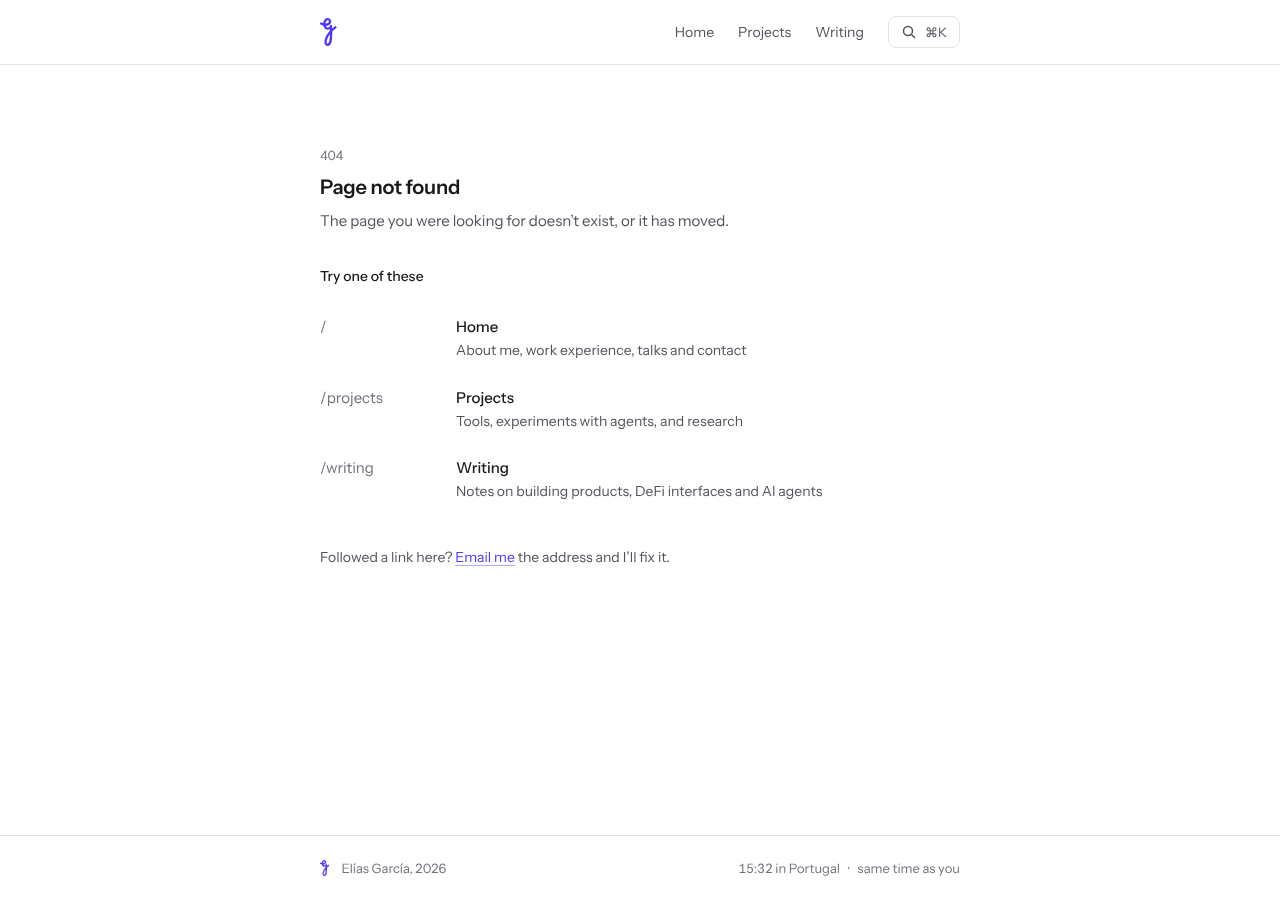
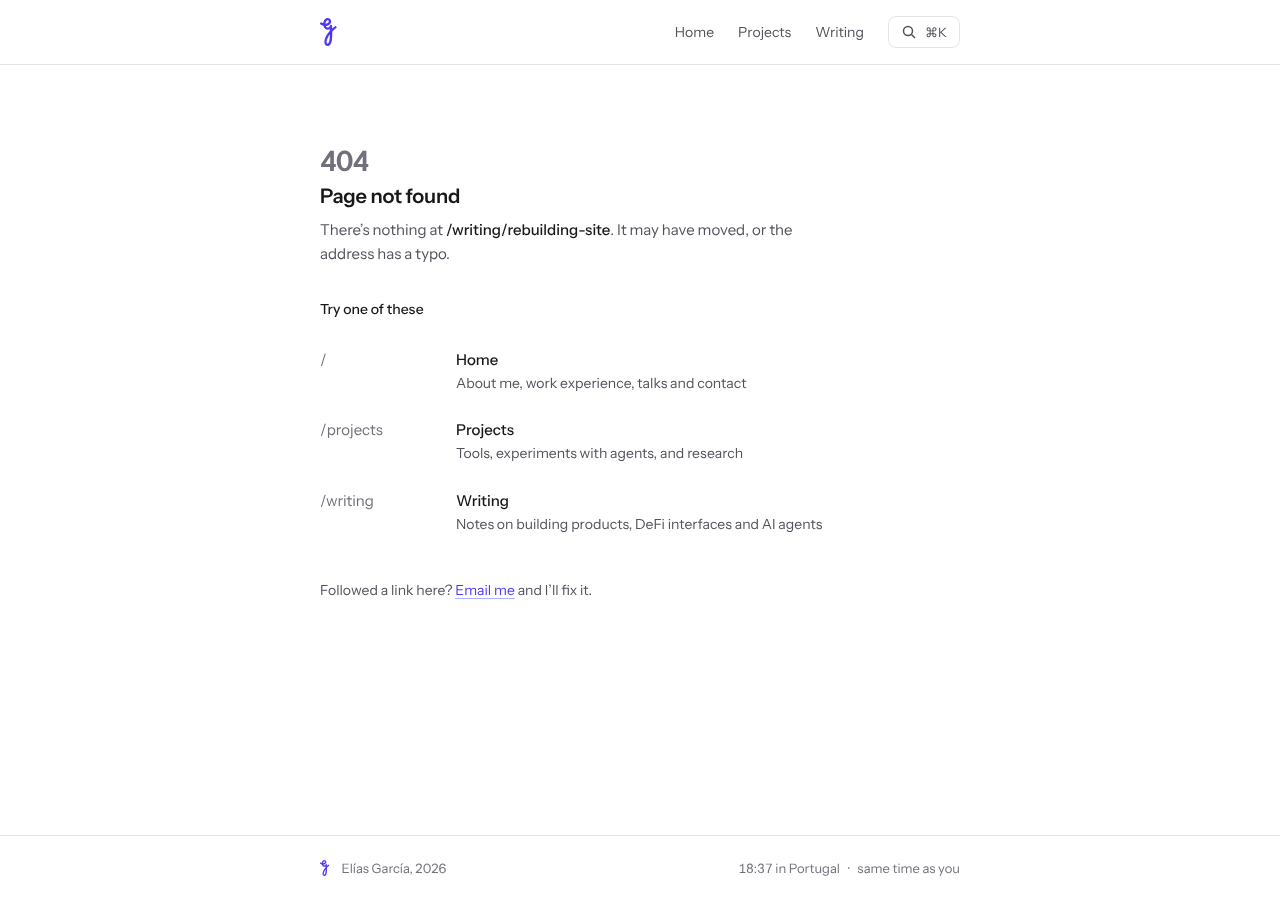
feat: build the 404 page

diff --git a/design/reference/404.html b/design/reference/404.html
@@ -134,7 +134,6 @@ html{scroll-padding-top:80px}
 .site > main{padding-top:48px !important}
 }
 
-/* search: nested choice (Download CV → format). The crumb shows where you are and goes back */
 .pcrumb{flex:none;display:inline-flex;align-items:center;height:28px;padding:0 12px;border:0;border-radius:var(--r-full);background:var(--control);color:var(--text-2);font:inherit;font-size:13px;cursor:pointer;transition:background var(--dur) var(--ease),color var(--dur) var(--ease)}
 .pcrumb:hover{background:var(--control-hover);color:var(--text)}
 .pret{text-align:center}
@@ -164,6 +163,15 @@ html:has(.pscrim){overflow:hidden}
 
 /* jumping to a #link scrolls smoothly (heading anchors, footnotes, back links, skip link); instant with reduced motion */
 @media (prefers-reduced-motion: no-preference){html{scroll-behavior:smooth}}
+
+/* 404 page */
+.nfaddr{color:var(--text);font-weight:500;overflow-wrap:anywhere}
+.nfcode{margin:0;font-size:28px;line-height:1.2;font-weight:600;letter-spacing:-0.02em;color:var(--text-3);font-variant-numeric:tabular-nums}
+.vh{position:absolute;width:1px;height:1px;overflow:hidden;clip:rect(0 0 0 0);white-space:nowrap}
+
+
+/* 404: the large "404" is a visual label (the h1 carries it for screen readers); the address that failed is in the subtitle. The paths are a visual hint only (hidden from screen readers), and are dropped on phones where they would take a line each */
+@media (max-width: 639.98px){.nfmix .path{display:none}}
 </style>
 </head><body>
 
@@ -189,22 +197,22 @@ html:has(.pscrim){overflow:hidden}
   </header>
 
   <main id="content" style="max-width: 688px; margin: 0 auto; padding: 80px 24px 0; display: flex; flex-direction: column; gap: 32px">
-    <header style="display: flex; flex-direction: column; gap: 8px">
-      <p style="margin: 0; font-size: 13px; color: var(--text-3); font-variant-numeric: tabular-nums">404</p>
-      <h1 style="margin: 0; font-size: 20px; line-height: 1.35; font-weight: 600; letter-spacing: -0.01em">Page not found</h1>
-      <p style="margin: 0; color: var(--text-2); max-width: 52ch">The page you were looking for doesn’t exist, or it has moved.</p>
-    </header>
 
-    <section aria-labelledby="try-h" style="display: flex; flex-direction: column; gap: 8px">
+    <header style="display: flex; flex-direction: column; gap: 4px">
+      <p class="nfcode" aria-hidden="true">404</p>
+      <h1 style="margin: 0; font-size: 20px; line-height: 1.35; font-weight: 600; letter-spacing: -0.01em"><span class="vh">404: </span>Page not found</h1>
+      <p style="margin: 4px 0 0; color: var(--text-2); max-width: 52ch">There’s nothing at <span class="nfaddr">/writing/rebuilding-site</span>. It may have moved, or the address has a typo.</p>
+    </header>
+    <section class="nfmix" aria-labelledby="try-h" style="display: flex; flex-direction: column; gap: 8px">
       <h2 id="try-h" style="margin: 0 0 8px; font-size: 14px; font-weight: 500">Try one of these</h2>
       <ul class="list" role="list" style="display: flex; flex-direction: column">
-        <li><a class="item" href="Main.dc.html" style="display: flex; flex-wrap: wrap; gap: 4px 24px; padding: 12px 0"><span class="path">/</span><span style="flex: 1 1 300px; min-width: 0; display: flex; flex-direction: column"><span style="font-weight: 500">Home</span><span style="font-size: 14px; color: var(--text-2)">About me, work experience, talks and contact</span></span></a></li>
-        <li><a class="item" href="ProjectsIndex.dc.html" style="display: flex; flex-wrap: wrap; gap: 4px 24px; padding: 12px 0"><span class="path">/projects</span><span style="flex: 1 1 300px; min-width: 0; display: flex; flex-direction: column"><span style="font-weight: 500">Projects</span><span style="font-size: 14px; color: var(--text-2)">Tools, experiments with agents, and research</span></span></a></li>
-        <li><a class="item" href="Writing.dc.html" style="display: flex; flex-wrap: wrap; gap: 4px 24px; padding: 12px 0"><span class="path">/writing</span><span style="flex: 1 1 300px; min-width: 0; display: flex; flex-direction: column"><span style="font-weight: 500">Writing</span><span style="font-size: 14px; color: var(--text-2)">Notes on building products, DeFi interfaces and AI agents</span></span></a></li>
+        <li><a class="item" href="Main.dc.html" style="display: flex; flex-wrap: wrap; gap: 4px 24px; padding: 12px 0"><span class="path" aria-hidden="true">/</span><span style="flex: 1 1 300px; min-width: 0; display: flex; flex-direction: column"><span style="font-weight: 500">Home</span><span style="font-size: 14px; color: var(--text-2)">About me, work experience, talks and contact</span></span></a></li>
+        <li><a class="item" href="ProjectsIndex.dc.html" style="display: flex; flex-wrap: wrap; gap: 4px 24px; padding: 12px 0"><span class="path" aria-hidden="true">/projects</span><span style="flex: 1 1 300px; min-width: 0; display: flex; flex-direction: column"><span style="font-weight: 500">Projects</span><span style="font-size: 14px; color: var(--text-2)">Tools, experiments with agents, and research</span></span></a></li>
+        <li><a class="item" href="Writing.dc.html" style="display: flex; flex-wrap: wrap; gap: 4px 24px; padding: 12px 0"><span class="path" aria-hidden="true">/writing</span><span style="flex: 1 1 300px; min-width: 0; display: flex; flex-direction: column"><span style="font-weight: 500">Writing</span><span style="font-size: 14px; color: var(--text-2)">Notes on building products, DeFi interfaces and AI agents</span></span></a></li>
       </ul>
     </section>
 
-    <p style="margin: 0; font-size: 14px; color: var(--text-2)">Followed a link here? <a class="reportlink" href="mailto:eliasgarciadev@gmail.com?subject=Broken%20link">Email me</a> the address and I’ll fix it.</p>
+    <p style="margin: 0; font-size: 14px; color: var(--text-2)">Followed a link here? <a class="reportlink" href="mailto:eliasgarciadev@gmail.com?subject=Broken%20link%3A%20/writing/rebuilding-site&body=I%20followed%20a%20link%20to%20https%3A//eliasgarcia.dev/writing/rebuilding-site%20from%3A%20">Email me</a> and I’ll fix it.</p>
   </main>
 
   <footer style="margin-top: 96px; border-top: 1px solid var(--line); padding-bottom: env(safe-area-inset-bottom, 0px)">
@@ -213,7 +221,7 @@ html:has(.pscrim){overflow:hidden}
         <svg viewBox="0 0 35.44 60" width="9.45" height="16" aria-hidden="true" style="display: block; flex: none"><path d="M35.06,18.67a2.46,2.46,0,0,0-3.5-.7,42.61,42.61,0,0,0-5.49,4.29c0-6.79-.5-6.89-1.1-7.38a2.35,2.35,0,0,0-1.59-.6A2.5,2.5,0,0,0,21,16.47a4.52,4.52,0,0,1-4.49,4A4.2,4.2,0,0,1,13,18c-.1-.3-.29-.5-.39-.8a12.89,12.89,0,0,0,6.78-2.29c2.9-2.1,4.5-4.4,4.6-7a7.48,7.48,0,0,0-2.2-5.59A8,8,0,0,0,16.39,0C14.09,0,12,1.1,10,3.09a13.36,13.36,0,0,0-3.2,7.69v.3a13.85,13.85,0,0,1-3-1.4,2.45,2.45,0,0,0-3.39.8A2.5,2.5,0,0,0,1.21,14,25.34,25.34,0,0,0,7.1,16.47l.3.9c1.1,3.6,3.8,8,9,8h.2a11.39,11.39,0,0,0,4.49-1.1v2.79A48.74,48.74,0,0,0,11.9,40.93c-2.9,7-3.4,12.28-1.3,15.68a6.88,6.88,0,0,0,4.79,3.29c.2,0,.5.1,1,.1A6.55,6.55,0,0,0,20,58.9c2.6-1.6,4.3-4.89,5.29-9.78.8-4.1,1-12.08,1-19.07V29h0l.1-.1a62.39,62.39,0,0,1,8.09-6.79A2.57,2.57,0,0,0,35.06,18.67ZM11.8,11.78a8.62,8.62,0,0,1,1.89-5.29,4.9,4.9,0,0,1,2.7-1.6h.1a3.07,3.07,0,0,1,1.8.7l.1.1a3,3,0,0,1,.69,1.7c-.1,1-1,2.09-2.49,3.19A8.07,8.07,0,0,1,11.9,12C11.8,12,11.8,11.88,11.8,11.78Zm9.28,23.06h0V36a74.15,74.15,0,0,1-.9,12.18C19.08,53.81,17.09,55,16.29,55H16a2.47,2.47,0,0,1-1.2-.9c-.5-.9-1.5-3.79,1.7-11.18a39.57,39.57,0,0,1,4.59-8.09Z" style="fill: var(--accent-c)"></path><path d="M26.17,30.3a23.23,23.23,0,0,0-2.3,2.5,41.77,41.77,0,0,0-2.7,3.6V34.9h0a32.88,32.88,0,0,1,2.4-3.2,37.32,37.32,0,0,1,2.6-2.7Z" style="fill: #000; opacity: 0.3"></path><path d="M12.57,17.1s-1.3,0-2.7-.1a26,26,0,0,1-2.8-.5l.3.9a20.07,20.07,0,0,0,2.6.5,8.48,8.48,0,0,0,3,0Z" style="fill: #000; opacity: 0.3"></path><path d="M11.8,11.78v.3a8.79,8.79,0,0,1-2.4-.2,14.31,14.31,0,0,1-2.5-.8v-.3a15.12,15.12,0,0,0,2.6.7A7.52,7.52,0,0,0,11.8,11.78Z" style="fill: #000; opacity: 0.1"></path><path d="M26.07,21.8c-.2.2-2,1.8-2.6,2.3s-2,2-2.3,2.4V27s1.5-1.7,2.4-2.5l2.5-2.3Z" style="fill: #000; opacity: 0.1"></path></svg>
         Elías García, 2026
       </span>
-      <span class="clock" style="display: inline-flex; align-items: center; gap: 8px; font-variant-numeric: tabular-nums"><span><time datetime="17:43">17:43</time> in Portugal</span><span aria-hidden="true">·</span><span>same time as you</span></span>
+      <span class="clock" style="display: inline-flex; align-items: center; gap: 8px; font-variant-numeric: tabular-nums"><span><time datetime="18:37">18:37</time> in Portugal</span><span aria-hidden="true">·</span><span>same time as you</span></span>
     </div>
   </footer>
 

diff --git a/src/styles/tokens.css b/src/styles/tokens.css
@@ -24,7 +24,7 @@
   --accent: #4f39f6; /* indigo-600 */
   --tint: #eef2ff; /* indigo-50: selected chip, active search row */
   --tint-strong: #e0e7ff; /* indigo-100: search match highlight */
-  --accent-line: #a3b3ff; /* indigo-300: underline under links in prose */
+  --accent-line: #a3b3ff; /* indigo-300: underline under text links */
 
   /* ---- Code: minimal indigo syntax theme (every colour ≥4.5:1 on --surface) ---- */
   --code-plain: #52525c; /* zinc-600 */
@@ -156,8 +156,8 @@
   --code-inline: 0.875em; /* inline code, relative to the text around it */
   --focus-ring: 2px;
   --focus-offset: 3px;
-  --underline-offset: 3px; /* links in prose and the post's topic link */
-  --underline-strong: 2px; /* a prose link's underline on hover and focus */
+  --underline-offset: 3px; /* text links and the post's topic link */
+  --underline-strong: 2px; /* a text link's underline on hover and focus */
   --kbd-min: 20px; /* narrowest key hint */
   --hero-row: 36px; /* listing rows in a case study hero */
   --hero-chip: 28px; /* chips in a case study hero */

diff --git a/src/content.config.ts b/src/content.config.ts
@@ -13,7 +13,9 @@ const site = defineCollection({
   schema: z.object({
     name: z.string(),
     role: z.string(),
-    location: z.string(),
+    city: z.string(),
+    // The footer clock says the time "in {country}", where the timezone is.
+    country: z.string(),
     timezone: z.string(),
     availability: z.string(),
     about: z.array(z.string()),
@@ -116,9 +118,26 @@ const pages = defineCollection({
   }),
 });
 
+const notFound = defineCollection({
+  loader: file("src/content/not-found.yaml"),
+  schema: z.object({
+    label: z.string(),
+    title: z.string(),
+    intro: z.string(),
+    introWithAddress: z.string().includes("{address}"),
+    suggestionsTitle: z.string(),
+    suggestions: z.record(z.string(), z.string()),
+    report: z.string().includes("{link}"),
+    reportLink: z.string(),
+    reportSubject: z.string(),
+    reportBody: z.string().includes("{url}").includes("{referrer}"),
+  }),
+});
+
 export const collections = {
   site,
   pages,
+  notFound,
   work,
   talks,
   courses,

diff --git a/src/lib/content.ts b/src/lib/content.ts
@@ -106,6 +106,11 @@ export async function getPage(id: string) {
   return data;
 }
 
+export async function getNotFoundPage() {
+  const { data } = await requireEntry("notFound", "not-found");
+  return data;
+}
+
 export async function getFeedTitle(): Promise<string> {
   const [profile, page] = await Promise.all([getProfile(), getPage("writing")]);
   return `${profile.name}: ${page.title}`;

diff --git a/src/lib/cv.ts b/src/lib/cv.ts
@@ -59,7 +59,7 @@ export async function renderCvMarkdown(): Promise<string> {
 
   return [
     `# ${profile.name}`,
-    `${profile.role} · ${profile.location} · ${profile.availability}`,
+    `${profile.role} · ${profile.city}, ${profile.country} · ${profile.availability}`,
     contact,
     "## About",
     profile.about.join("\n\n"),

diff --git a/design/DESIGN.md b/design/DESIGN.md
@@ -58,7 +58,7 @@ One family, **Instrument Sans** (Google Fonts, via Astro's Fonts API), weights 4
 
 | Style | Size · weight · line height | Tracking | Use | Element |
 |---|---|---|---|---|
-| Display | 28 · 600 · 1.2 | −0.02em | Post and case study titles | `h1` |
+| Display | 28 · 600 · 1.2 | −0.02em | Post and case study titles; the "404" label on the 404 page (`--text-3`, `aria-hidden`) | `h1`; `p` (404 label) |
 | Page title | 20 · 600 · 1.35 | −0.01em | Home name, Projects, Writing, 404 | `h1` |
 | Heading | 18 · 600 · 1.35 | −0.01em | Section headings in posts and case studies | `h2` |
 | Lead | 18 · 400 · 1.6 | 0 | Case study intro | `p` |
@@ -210,7 +210,7 @@ Each component appears exactly once in the design system. Live versions: `refere
 - **Previous / next card.** Bordered, `--r-lg`; the chevron sits on the side it leads to. In a `<nav aria-label="More posts">` (or "More projects").
 
 ### Text and metadata
-- **Page intro.** The `<header>` that opens Projects, Writing and the 404: the page title, optionally with an action on its right (Subscribe on Writing), and one paragraph in `--text-2` 8px below, across the full text column (no narrower measure). Anything else in the intro, like the Writing topic chips, sits 20px below.
+- **Page intro.** The `<header>` that opens Projects, Writing and the 404: optionally a label 4px above the title ("404"), the page title, optionally with an action on its right (Subscribe on Writing), and one paragraph in `--text-2` 8px below, across the full text column (no narrower measure). Anything else in the intro, like the Writing topic chips, sits 20px below.
 - **Metadata line.** Items separated by a dot: each dot is its own `aria-hidden` element with an 8px gap on each side (never a dot between plain spaces). On wrapping, a dot stays with the item after it, so a line never ends on a dot. Post header: "November 9, 2026 · Design engineering · 4 min read"; the topic links to its Writing topic page (`/writing/topics/<slug>`).
 - **Project facts.** `<dl>`: **Year · Status · Links** in three equal columns between two hairlines; below 640px one fact per row: the 13px label in a 112px column (like the lists' date column) and the 14px value beside it on the same baseline, 24px apart, 12px between rows; links that don't fit wrap under the first, still in the value column. Links are named by destination ("Website", "GitHub", "npm"), product first, code second, with the external arrow; none → "Not public yet" in `--text-3`.
 - **Author footer.** Ends every post: 40px photo, name (`rel="author"`, links Home) and role, inside the article's `<footer>` / `<address>`.
@@ -315,7 +315,10 @@ Intro with **Subscribe** (RSS icon + label) on the right of the title; topic chi
 Back link + Copy page, title (display), metadata line, then the article (max 640px, long-form text), a reading-progress bar under the header (scroll-driven animation where supported), the author footer and previous/next.
 
 ### 404
-"404" (meta), "Page not found" (page title), one sentence, then "Try one of these" as list rows with the path in the gutter ("/", "/projects", "/writing"), and "Followed a link here? **Email me** the address and I'll fix it." (mailto with subject "Broken link"; in the real build, prefill the body with the requested URL). No separate search button: the header search is enough.
+- **Header:** the page intro. "404" at Display size (28 · 600 · 1.2, −0.02em, tabular figures) in `--text-3`, `aria-hidden`; 4px below it the page title `h1` "Page not found" (20 · 600), whose accessible text is "404: Page not found" (a visually hidden "404: " before it); 8px below, one sentence in `--text-2`, full width like the other intros: "There's nothing at **{address}**. It may have moved, or the address has a typo." The address is the requested path (`location.pathname`) in `--text` 500, allowed to break after "/" (`<wbr>` after each slash). Without JavaScript, or when the path is empty, the sentence reads "There's nothing at this address." instead.
+- **Try one of these:** 32px below, an `h2` "Try one of these" (14 · 500) and three list rows: Home, Projects, Writing, each with its one-line description. From 640px, the path ("/", "/projects", "/writing") sits in the 112px date column as a visual hint, `aria-hidden`; below 640px the path and its column are hidden, so each row is title and description only.
+- **Report line:** 32px below, "Followed a link here? **Email me** and I'll fix it." The link is a `mailto:` with subject "Broken link: {address}" and body "I followed a link to {full URL} from: {document.referrer, or nothing}", both URL-encoded. Without JavaScript the subject is "Broken link".
+- **Build:** the page returns a real **404 status** (`src/pages/404.astro`, which the host serves for unknown paths; never a redirect to Home, never a 200). Browser title "Page not found", like the other pages' titles. 404s are logged by the site's analytics: its page views record the requested path and the referrer. No separate search on the page: the header search (⌘K) is enough.
 
 ### Share images (Open Graph, 1200×630)
 `assets/share-site.png` and `assets/share-post.png`, templates in `reference/share-*.html`. Always light theme. Top: logo (+ "Elías García · Writing" on posts); middle: photo + name + title, or the post title at 72px; bottom: details on the left, eliasgarcia.dev on the right, dots spaced 16px. No time-sensitive status on them. Generate one per post at build time in a static endpoint, with Satori and sharp.

diff --git a/PLAN.md b/PLAN.md
@@ -13,8 +13,8 @@ One page per step. Each step builds the components that page needs (DESIGN.md §
 5. ~~**Projects.**~~ Done. Intro and the project card grid (from 640px, the first project spans both columns when the count is odd). Components: project card, project status line (also on the Home tiles) and page intro (shared with Writing), reusing the project illustrations.
 6. ~~**Roleburn case study.**~~ Done. The case study page (`/projects/<slug>`) with its hero and the preview morph from Home and Projects. Components: project facts, the Roleburn hero and the figure placeholder, reusing the back link, code block and previous/next card. work-issue and POL funding spreads have draft placeholder case studies (dev only).
 7. ~~**Home updates.**~~ Done. From the home-redesign handoff. Intro line with the location. Work rows: work mode after the company, first-line alignment of date, company and +/×, spaced en dash in ranges (also Education). "Speaking and teaching" split into Speaking and Teaching, without the Lisbon photo: talks dated by month with photo attachments; the course as a link row with the course rating line and a video preview. Project facts: one fact per row below 640px, label in the 112px column. Content: `site.yaml`, `work.yaml`, `talks.yaml` (split into talks and courses) and the generated `/cv.md`; the talk photos and trailer thumbnail into `src/assets/`, `speaking-lisbon-2023.jpg` replaced by `talk-lisbon-slide.jpg` (also in `prose.mdx`) and deleted. Components: list row attachment (photos, video preview), course rating line.
-8. **404.** The page intro with "404" above the title, "Try one of these" rows with the path in the gutter and the broken-link email, reusing the list row.
-9. **Site-wide features.** Search dialog and its header button (with 12px key hints and the input's padding reset), sitemap, `robots.txt` (allowing AI crawlers, DESIGN.md §7), JSON-LD (the Home `Person` with the Porto address), share images, analytics.
+8. ~~**404.**~~ Done. The page intro with the "404" label above the title, the sentence naming the missing address (filled in by a script), "Try one of these" rows with the path in the date column (hidden on phones), and the report link with the address prefilled in the email. Components: the page intro's label, the list row's `dateOnPhones` option, and the text link (shared with prose links). The host serves `404.html` with a 404 status.
+9. **Site-wide features.** Search dialog and its header button (with 12px key hints and the input's padding reset), sitemap, `robots.txt` (allowing AI crawlers, DESIGN.md §7), JSON-LD (the Home `Person` with the Porto address), share images, analytics (its page views on the 404 page are the log of broken links: check that they record the requested path and the referrer).
 10. **Final pass.** Compare every page with its screenshots in both themes and both widths, in `npm run dev` so draft posts show. Tab through each page with the keyboard. Run the accessibility check once against a build that includes drafts.
 
 ## Notes for the next steps
@@ -27,7 +27,7 @@ One page per step. Each step builds the components that page needs (DESIGN.md §
 - TypeScript stays on 6.0 because `@astrojs/check` and `typescript-eslint` don't support 7 yet. Move to 7 once both list it as a supported peer.
 - `npm run a11y` runs in the installed Google Chrome (`channel: "chrome"`), so any machine or CI runner that runs it needs Chrome.
 - Share images (step 9): the page only ships the font as woff2, which Satori cannot read. Give Satori its own font file (woff, ttf or otf) without adding it to the page's `@font-face` rules.
-- 404 page (step 8): Lighthouse audits it for SEO too. If it gets `noindex`, add `"autodiscoverUrlBlocklist": ["/404.html"]` to `collect` in `lighthouserc.json` and say so in CLAUDE.md, or the SEO check fails.
+- The 404 page has no `noindex`: a real 404 status already keeps it out of search results. If it ever gets one, add `"autodiscoverUrlBlocklist": ["/404.html"]` to `collect` in `lighthouserc.json`, or the SEO check fails.
 - Packages to install in the step that needs them: `@astrojs/sitemap`, `@vercel/analytics`, Satori and sharp (step 9). In step 9, confirm the `@vercel/analytics` component works with no adapter. If not, add `@astrojs/vercel` and update CLAUDE.md.
 
 ## Content still missing
